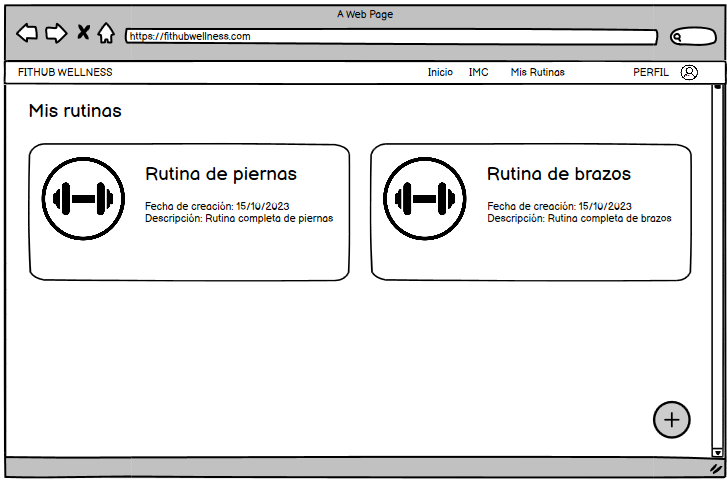
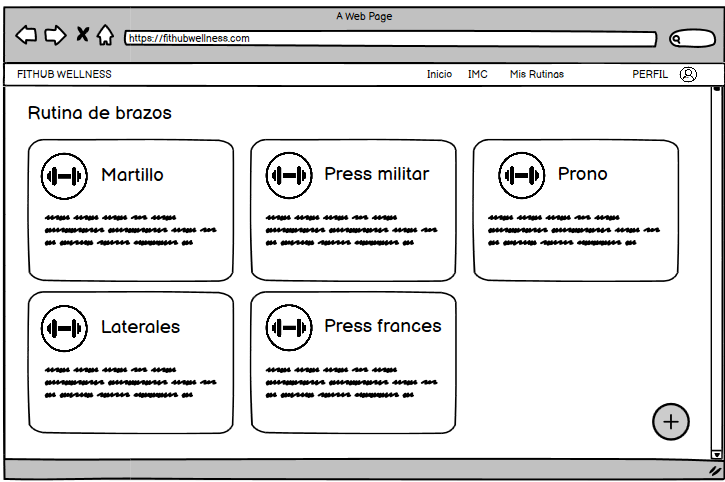
creando historia de usuario de crear rutina

Changed region(s): [[0.0, 0.0, 1.0, 1.0], [0.7586, 0.5602, 0.9407, 0.5913]]

diff --git a/historias/historia30.md b/historias/historia30.md
@@ -1,84 +1,113 @@
-# Historia de usuario de crear y ver rutina
+# Historia de usuario de ver rutina y ejercicios por rutina
 
 Yo: como usuario de la aplicación,
-Quiero: poder agregar una rutina de entrenamiento,
-Para: poder realizarla posteriormente y ver esa lista de rutinas.
+Quiero: ver una lista de rutinas de entrenamiento y los ejercicios que hay dentro de cada rutina,
+Para: poder seleccionar una rutina y ver los ejercicios que hay dentro de ella.
 
 ## Criterios de aceptación
 
-- El usuario debe poder crear una lista de rutinas nueva.
-- El usuario debe poder ver una lista de rutinas de entrenamiento.
+- El usuario debe poder ver una lista de rutinas de entrenamiento y los ejercicios que hay dentro de cada rutina.
+
+#### Prototipo de baja fidelidad
+
+- Dado: Que el usuario inicio sesión y se encuentra en la página de mis rutinas de la aplicación.
+- Cuando: El usuario cargue la página de mis rutinas y/o seleccione una rutina de entrenamiento.
+- Entonces: El usuario podrá ver una lista de rutinas de entrenamiento y los ejercicios que hay dentro de cada rutina. 
 
 ## Análisis y diseño
 
-<img src="../assets/historia30.png" alt="Historia de usuario de crear y ver rutina" width="500px" ><br/>
+<img src="../assets/historia30.png" alt="Historia de usuario de ver rutina y ejercicios por rutina" width="500px" ><br/>
+<img src="../assets/historia35.png" alt="Historia de usuario de ver rutina y ejercicios por rutina" width="500px" ><br/>
 
-- El usuario debe poder crear una lista de rutinas nueva porque es una funcionalidad básica de la aplicación.
-- El usuario debe poder ver una lista de rutinas de entrenamiento porque es una funcionalidad básica de la aplicación.
+- El usuario debe poder ver una lista de rutinas de entrenamiento y los ejercicios que hay dentro de cada rutina porque es una funcionalidad básica de la aplicación.
 
 #### Descripción de la interfaz de usuario
 
-Esta interfaz permitirá al usuario crear una lista de rutinas nueva. Al mismo tiempo, el usuario podrá ver las rutinas de entrenamiento que ha creado y los ejercicios que hay dentro de cada rutina.
+Esta interfaz permitirá al usuario ver una lista de rutinas de entrenamiento. Todo con la finalidad de que el usuario pueda seleccionar una rutina y ver los ejercicios que hay dentro de ella. Cada una de las cards de las rutinas tendrá un botón que permitirá al usuario ver los ejercicios que hay dentro de esa rutina. En la primera fotografia se muestra la interfaz de usuario para ver las rutinas. En la segunda fotografia se muestra la interfaz de usuario para ver los ejercicios que hay dentro de una rutina.
 
 ### Lo que devuleve la API
 
+#### Obtener lista de rutinas
+
 - Para las rutinas de un usuario, al momento de ingresar a ver las listas tenemos el siguiente get que nos devuelve las listas de las rutinas creadas por el usuario:
 
+    Request:
+
+        ```
+        GET http://localhost:8080/api/v1/users/1/rutinas
+        Accept: application/json
+        ```
+
+    Response: Exitoso statusCode: 200
+    
+        ```
+        [
+            {
+                "rutinaId": 1,
+                "nombreRutina": "Rutina de Fuerza",
+                “fechaCreacion”: “2022-05-05”,
+                "descripcion": "Con una barra sobre tus hombros, baja tu cuerpo hasta que tus muslos estén paralelos al suelo y luego regresa a la posición inicial."
+            },
+            {
+                "rutinaId": 2,
+                "nombreRutina": "Rutina de Flexibilidad",
+                “fechaCreacion”: “2022-05-05”,
+                "descripcion": "Sentado en el suelo, estira una pierna y flexiona la otra. Intenta tocar la punta del pie con las manos."
+            }
+        ]
+        ```
+
+    Response: Error statusCode: 400
+    
+        ```
+        {
+            "detail": "No se pudo obtener la lista de rutinas"
+        }
+        ```
+
     ```
-    GET http://localhost:8080/api/v1/users/1/rutinas
-    [
-    {
-        "rutinaId": 1,
-        "nombreRutina": "Rutina de Fuerza",
-        “fechaCreacion”: “2022-05-05”,
-        "descripcion": "Con una barra sobre tus hombros, baja tu cuerpo hasta que tus muslos estén
-        paralelos al suelo y luego regresa a la posición inicial."
-    },
-    {
-        "rutinaId": 2,
-        "nombreRutina": "Rutina de Flexibilidad",
-        “fechaCreacion”: “2022-05-05”,
-        "descripcion": "Sentado en el suelo, estira una pierna y flexiona la otra. Intenta tocar la punta 
-        del pie con las manos."
-    }
-    ]
-    ```
+
+#### Obtener ejercicios de una rutina
 
 - Para obtener los ejercicios al momento de ingresar a una lista se tiene el siguiente get:
 
-    ```
-    GET http://localhost:8080/api/v1/users/1/rutinas/1
-    {
-    "rutinaId": 1,
-    "nombreRutina": "Rutina de Fuerza",
-    "ejercicios": [
+    Request:
+
+        ```
+        GET http://localhost:8080/api/v1/users/1/rutinas/1
+        Accept: application/json
+        ```
+
+    Response: Exitoso statusCode: 200
+    
+        ```
         {
-        "ejercicioId": 10,
-        "nombreEjercicio": "Press de Banca",
-        "descripcion": "Presiona una barra desde el pecho hasta la extensión completa de los brazos mientras estás acostado en una banca."
-        },
-        {
-        "ejercicioId": 11,
-        "nombreEjercicio": "Sentadillas",
-        "descripcion": "Con una barra sobre tus hombros, baja tu cuerpo hasta que tus muslos estén paralelos al suelo y luego regresa a la posición inicial."
-        },
-        {
-        "ejercicioId": 12,
-        "nombreEjercicio": "Deadlift",
-        "descripcion": "Levanta una barra desde el suelo hasta la altura de la cintura manteniendo la espalda recta."
+            "rutinaId": 1,
+            "nombreRutina": "Rutina de Fuerza",
+            "ejercicios": [
+                {
+                    "ejercicioId": 10,
+                    "nombreEjercicio": "Press de Banca",
+                    "descripcion": "Presiona una barra desde el pecho hasta la extensión completa de los brazos mientras estás acostado en una banca."
+                },
+                {
+                    "ejercicioId": 11,
+                    "nombreEjercicio": "Sentadillas",
+                    "descripcion": "Con una barra sobre tus hombros, baja tu cuerpo hasta que tus muslos estén paralelos al suelo y luego regresa a la posición inicial."
+                },
+                {
+                    "ejercicioId": 12,
+                    "nombreEjercicio": "Deadlift",
+                    "descripcion": "Levanta una barra desde el suelo hasta la altura de la cintura manteniendo la espalda recta."
+                }
+            ]
         }
-    ]
-    }
-    ```
+        ```
 
-- Si se quiere crear una lista de rutinas nueva se manda la solicitud del nombre de la rutina y para eso es el siguiente post:
-
-    ```
-    POST http://localhost:8080/api/v1/users/1/rutinas
-    Content-Type: application/json
-    Accept: application/json
-    {
-        "nombreRutina": "Rutina de Fuerza"
-        "descripcion": "Con una barra sobre tus hombros, baja tu cuerpo hasta que tus muslos estén paralelos al suelo y luego regresa a la posición inicial."
-    }
-    ```
+    Response: Error statusCode: 400
+    
+        ```
+        {
+            "detail": "No se pudo obtener la lista de ejercicios"
+        }
+        ```

diff --git a/historias/historia35.md b/historias/historia35.md
@@ -1,0 +1,62 @@
+# Historia de usuario de crear rutina
+
+Yo: como usuario de la aplicación,
+Quiero: crear una rutina de entrenamiento,
+Para: poder agregar los ejercicios que deseo realizar.
+
+## Criterios de aceptación
+
+- El usuario debe poder crear una rutina de entrenamiento.
+
+#### Prototipo de baja fidelidad
+
+- Dado: Que el usuario inicio sesión y se encuentra en la página de mis rutinas de la aplicación.
+- Cuando: El usuario seleccione la opción de crear una nueva rutina.
+- Entonces: El usuario podrá crear una rutina de entrenamiento.
+
+## Análisis y diseño
+
+<img src="../assets/historia35.png" alt="Historia de usuario de crear rutina" width="500px" ><br/>
+
+- El usuario debe poder crear una rutina de entrenamiento porque es una funcionalidad básica de la aplicación.
+
+#### Descripción de la interfaz de usuario
+
+Esta interfaz permitirá al usuario crear una rutina de entrenamiento. Todo con la finalidad de que el usuario pueda agregar los ejercicios que desea realizar. El usuario podrá agregar un nombre y una descripción a la rutina que desea crear. En la parte inferior de la interfaz se encuentra un botón que permitirá al usuario crear la rutina.
+
+### Lo que devuleve la API
+
+#### Crear una lista de rutinas
+
+- Si se quiere crear una lista de rutinas nueva se manda la solicitud del nombre de la rutina y para eso es el siguiente post:
+
+    Request:
+
+    ```
+    POST http://localhost:8080/api/v1/users/1/rutinas
+    Content-Type: application/json
+    Accept: application/json
+    {
+        "nombreRutina": "Rutina de Fuerza"
+        "descripcion": "Con una barra sobre tus hombros, baja tu cuerpo hasta que tus muslos estén paralelos al suelo y luego regresa a la posición inicial."
+    }
+    ```
+
+    Response: Exitoso statusCode: 201
+
+    ```
+    {
+        "rutinaId": 1,
+        "nombreRutina": "Rutina de Fuerza",
+        “fechaCreacion”: “2022-05-05”,
+        "descripcion": "Con una barra sobre tus hombros, baja tu cuerpo hasta que tus muslos estén paralelos al suelo y luego regresa a la posición inicial."
+    }
+    ```
+
+    Response: Error statusCode: 400
+
+    ```
+    {
+        "detail": "No se pudo crear la rutina"
+    }
+    ```

diff --git a/README.md b/README.md
@@ -9,7 +9,8 @@ El valor de este proyecto es que los usuarios puedan tener una aplicación que l
 10. [Historia de usuario de inicio de sesión](/historias/historia10.md)
 20. [Historia de usuario de ver partes del cuerpo para entrenar](/historias/historia20.md)
 25. [Historia de usuario de ver ejercicios para cada parte del cuerpo](/historias/historia25.md)
-30. [Historia de usuario de crear y ver rutina](/historias/historia30.md)
+30. [Historia de usuario de ver rutina y ejercicios por rutina](/historias/historia30.md)
+35. [Historia de usuario de crear rutina](/historias/historia35.md)
 40. [Historia de usuario de agregar ejercicio a rutina](/historias/historia40.md)
 45. [Historia de usuario de agregar ejercicio a una nueva rutina](/historias/historia45.md)
 50. [Historia de usuario de poder ver tu IMC](/historias/historia50.md)

diff --git a/historias/historia20.md b/historias/historia20.md
@@ -16,7 +16,7 @@ Para: poder posteriormente seleccionar los ejercicios que deseo realizar.
 
 ## Análisis y diseño
 
-<img src="../assets/historia20.png" alt="Historia de usuario de ver partes del cuerpo para entrenar y ver lista de ejercicios para cada parte del cuerpo" width="500px" ><br/>
+<img src="../assets/historia20.png" alt="Historia de usuario de ver partes del cuerpo para entrenar" width="500px" ><br/>
 
 - El usuario debe poder ver una lista de que partes del cuerpo puede entrenar porque es una funcionalidad básica de la aplicación.
 
